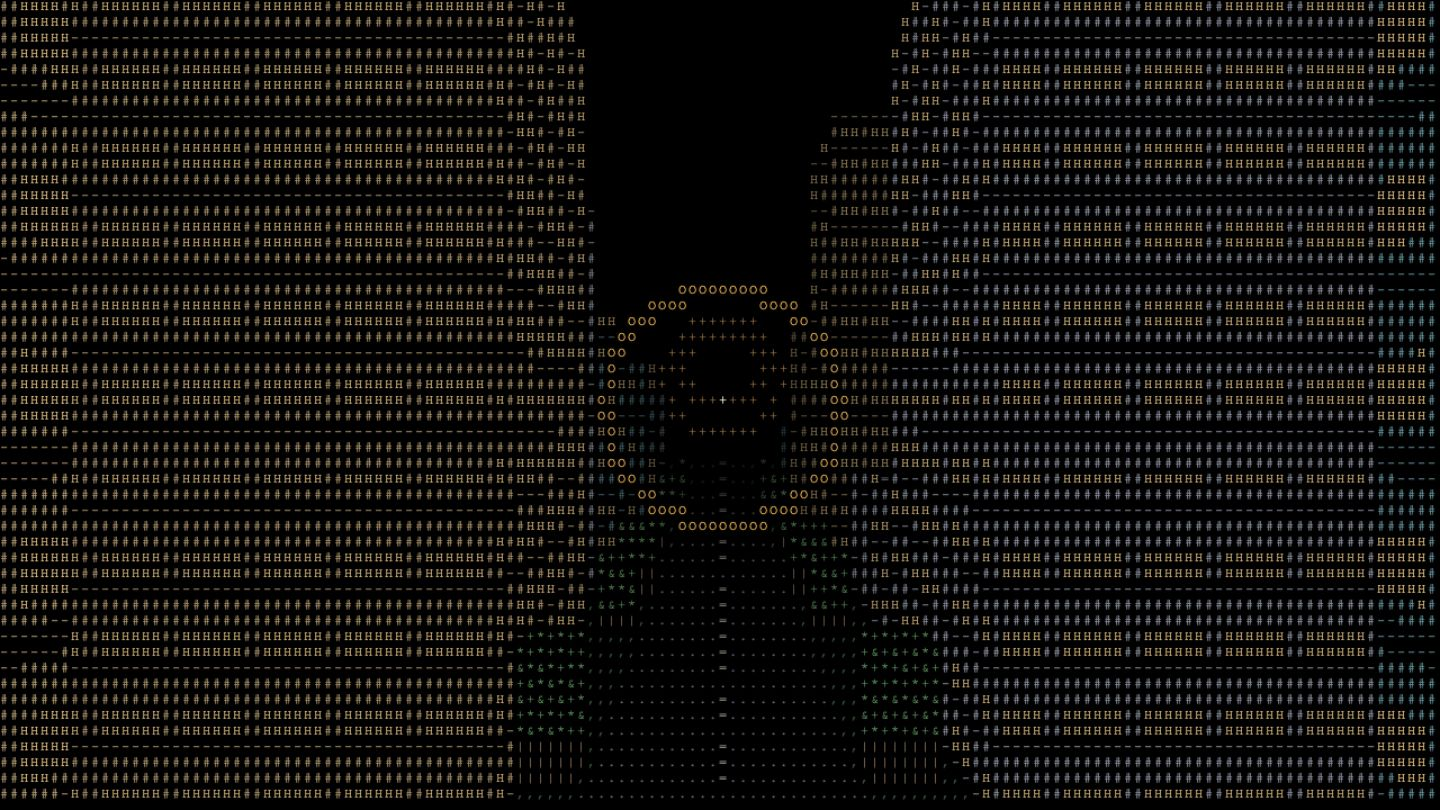
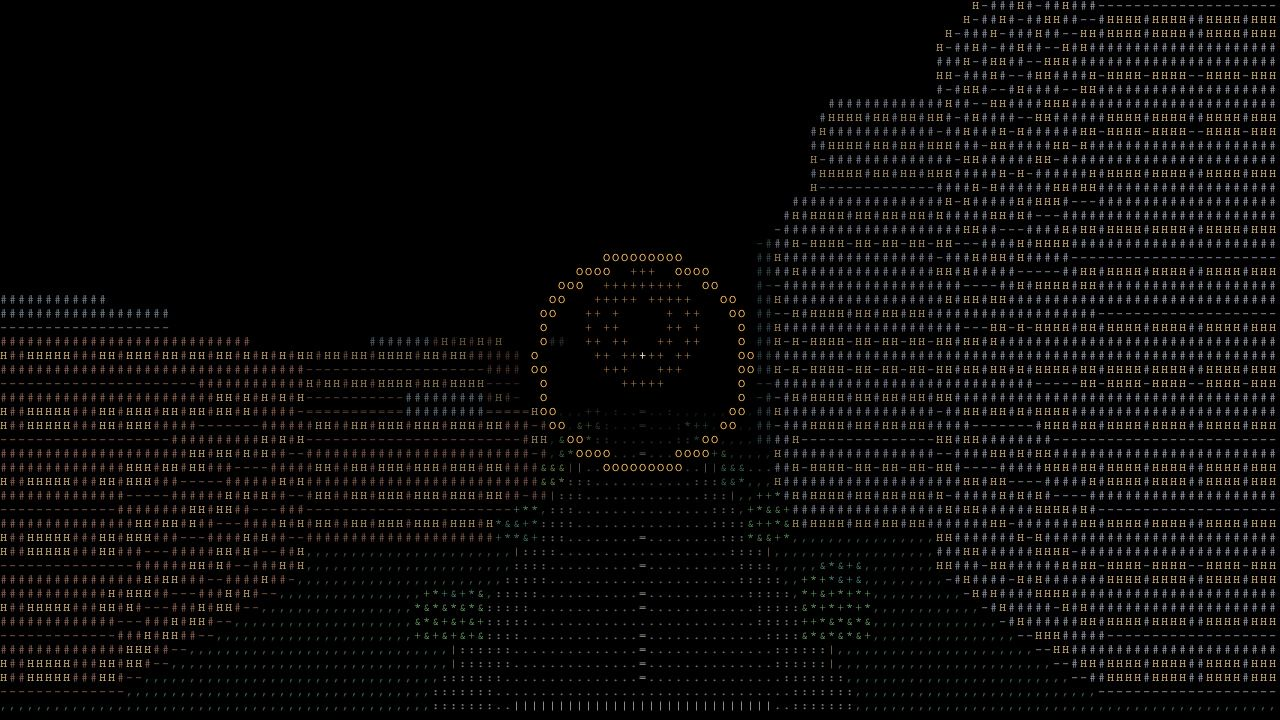
feat: expand ASCII flight into a varied district city
Add asymmetric street blocks, stepped towers, rooftop equipment, a winding river and bridges, a wooded park, clock tower, skybridges and industrial gantries. Replace the simple routes with four routes and 60 gates, verified through actual rate-limited flight controls. Cull ray candidates by projected character columns to retain detail while reducing rendering work. Refresh the standalone demo, homepage preview and documentation. Full build and 213 tests pass.

Changed region(s): [[0.0, 0.0, 1.0, 1.0], [0.4688, 0.3361, 0.5312, 0.3667]]

diff --git a/works/ascii-flight/demo/index.html b/works/ascii-flight/demo/index.html
@@ -14,11 +14,11 @@ body.preview .flight-view{min-height:0}
 <div class="telemetry"><div><span>空速</span><strong id="speed">25</strong><small>m/s</small></div><div><span>高度</span><strong id="altitude">27</strong><small>m</small></div><div><span>航向</span><strong id="heading">000</strong><small>°</small></div></div>
 <div class="attitude"><span id="pitch">俯仰 +0°</span><span id="roll">滚转 +0°</span><span id="turn">偏航 +0°/s</span></div>
 <div id="notice" role="status" aria-live="polite"></div>
-<div id="start-panel" class="panel"><h2>穿过字符里的城市</h2><p>没有像素贴图。楼房、树木、道路，都是一行行彩色字符。</p><label for="route">选择航线</label><select id="route"><option value="0">沿街初航 · 8 道航门</option><option value="1">街角转弯 · 8 道航门</option><option value="2">低空巡游 · 9 道航门</option><option value="free">自由飞行</option></select><p class="route-note" id="route-note">沿主街穿过 8 道航门，熟悉俯仰与油门。</p><button id="start" class="primary">开始飞行</button><p class="short-controls">W / S 俯仰　 A / D 滚转　 Z / X 速度</p></div>
+<div id="start-panel" class="panel"><h2>穿过字符里的城市</h2><p>穿行高楼街谷、滨河桥梁、公园林地与工业仓库。整座城市由彩色字符构成。</p><label for="route">选择航线</label><select id="route"><option value="0">城市穿针 · 12 道航门</option><option value="1">滨河回环 · 18 道航门</option><option value="2">公园低空 · 16 道航门</option><option value="3">工业远征 · 14 道航门</option><option value="free">自由飞行</option></select><p class="route-note" id="route-note">穿过高楼街谷与两座空中连廊，低飞穿洞，再抬升越过屋顶。</p><button id="start" class="primary">开始飞行</button><p class="short-controls">W / S 俯仰　 A / D 滚转　 Z / X 速度</p></div>
 <div id="result" class="panel" hidden><h2 id="result-title"></h2><p id="result-text"></p><button id="retry" class="primary">重新起飞</button><button id="choose">更换航线</button></div>
 <aside id="instructions" hidden><h2>操纵说明</h2><p>W 抬高机头，S 压低机头；A 向左滚转，D 向右滚转。松开按键后保持当前姿态。</p><p>俯仰、滚转均限于 ±45°。滚转 45° 时以 90°/s 转弯，角速度随滚转角线性变化。</p><p>Z 加速，X 减速，空速 10–50 m/s。转过街角后用反向滚转把机翼放平。</p><p>穿过金色 O 航门；不要碰到楼房、树冠或地面。P / Esc 暂停，R 重飞。</p><p>触屏可使用下方按住操纵键。</p></aside>
 </section>
-<footer><div class="progress"><span id="route-name">沿街初航</span><span id="gate-count">航门 0 / 8</span><span id="distance">航程 0 m</span></div><div class="actions"><button id="pause" disabled>暂停</button><button id="reset">重飞</button></div></footer>
+<footer><div class="progress"><span id="route-name">城市穿针</span><span id="gate-count">航门 0 / 12</span><span id="distance">航程 0 m</span></div><div class="actions"><button id="pause" disabled>暂停</button><button id="reset">重飞</button></div></footer>
 <div class="touch" aria-label="触屏操纵"><button data-key="w" aria-label="抬高机头">W</button><button data-key="s" aria-label="压低机头">S</button><button data-key="a" aria-label="左滚转">A</button><button data-key="d" aria-label="右滚转">D</button><button data-key="z" aria-label="加速">Z</button><button data-key="x" aria-label="减速">X</button></div>
-</main><script>(()=>{var mt=Object.create;var ot=Object.defineProperty;var gt=Object.getOwnPropertyDescriptor;var wt=Object.getOwnPropertyNames;var bt=Object.getPrototypeOf,St=Object.prototype.hasOwnProperty;var kt=(t,e)=>()=>{try{return e||t((e={exports:{}}).exports,e),e.exports}catch(n){throw e=0,n}};var Ct=(t,e,n,o)=>{if(e&&typeof e=="object"||typeof e=="function")for(let i of wt(e))!St.call(t,i)&&i!==n&&ot(t,i,{get:()=>e[i],enumerable:!(o=gt(e,i))||o.enumerable});return t};var vt=(t,e,n)=>(n=t!=null?mt(bt(t)):{},Ct(e||!t||!t.__esModule?ot(n,"default",{value:t,enumerable:!0}):n,t));var lt=kt((qt,st)=>{var A=Math.PI/4,it=Math.PI/2,K=Math.PI/3,$=(t,e,n)=>Math.max(e,Math.min(n,t));function Lt(){return{x:0,y:27,z:-50,pitch:0,roll:0,yaw:0,speed:25,distance:0,time:0,gate:0,status:"ready"}}function Et(t,e,n){if(n=$(n,0,.1),t.status!=="flying")return t;t.pitch=$(t.pitch+((e.w?1:0)-(e.s?1:0))*K*n,-A,A),t.roll=$(t.roll+((e.d?1:0)-(e.a?1:0))*K*n,-A,A),t.speed=$(t.speed+((e.z?1:0)-(e.x?1:0))*10*n,10,50),t.yaw+=t.roll/A*it*n;let o=t.speed*n,i=o*Math.cos(t.pitch);return t.x+=Math.sin(t.yaw)*i,t.y+=Math.sin(t.pitch)*o,t.z+=Math.cos(t.yaw)*i,t.distance+=o,t.time+=n,t}function rt(t,e,n,o=.7){let i=0,c=1;for(let s of["x","y","z"]){let w=n[s]-n[s+"Size"]/2-o,y=n[s]+n[s+"Size"]/2+o,z=e[s]-t[s];if(Math.abs(z)<1e-8){if(t[s]<w||t[s]>y)return!1;continue}let u=(w-t[s])/z,f=(y-t[s])/z;if(u>f&&([u,f]=[f,u]),i=Math.max(i,u),c=Math.min(c,f),i>c)return!1}return!0}function It(t,e,n){if(e.y<1||e.y>200)return e.y<1?"\u89E6\u5730":"\u8D85\u51FA\u7A7A\u57DF";for(let o of n)if(rt(t,e,o))return o.kind==="tree"?"\u649E\u5230\u6811\u51A0":"\u649E\u5230\u697C\u623F";return null}function Rt(t,e,n){let o=(t.x-n.x)*n.nx+(t.z-n.z)*n.nz,i=(e.x-n.x)*n.nx+(e.z-n.z)*n.nz;if(o>0||i<0||Math.abs(i-o)<1e-8)return!1;let c=-o/(i-o),s=t.x+(e.x-t.x)*c-n.x,w=t.y+(e.y-t.y)*c-n.y,y=t.z+(e.z-t.z)*c-n.z;return Math.hypot(s,w,y)<n.radius}function at(t){return()=>(t=Math.imul(t,1664525)+1013904223>>>0,t/4294967296)}function At(){let t=at(8419),e=[];for(let n=-5;n<=5;n++)for(let o=-3;o<=14;o++){for(let i of[-1,1]){let c=18+t()*68;e.push({kind:"building",x:n*120+i*(30+t()*5),y:c/2,z:o*120+32,xSize:25+t()*9,ySize:c,zSize:42,shade:Math.floor(t()*3)});let s=16+t()*42;e.push({kind:"building",x:n*120+i*35,y:s/2,z:o*120+83,xSize:32,ySize:s,zSize:31,shade:Math.floor(t()*3)})}for(let i of[-13,13])for(let c of[22,70,96])e.push({kind:"tree",x:n*120+i,y:5,z:o*120+c,xSize:5,ySize:10,zSize:5})}return e}var Tt=[{name:"\u6CBF\u8857\u521D\u822A",description:"\u6CBF\u4E3B\u8857\u7A7F\u8FC7 8 \u9053\u822A\u95E8\uFF0C\u719F\u6089\u4FEF\u4EF0\u4E0E\u6CB9\u95E8\u3002",points:[[0,27,50],[0,33,155],[0,39,265],[0,27,380],[0,23,495],[0,35,620],[0,42,735],[0,28,850]]},{name:"\u8857\u89D2\u8F6C\u5F2F",description:"\u5728\u5341\u5B57\u8DEF\u53E3\u5411\u53F3\u8F6C\uFF0C\u518D\u6CBF\u4FA7\u8857\u5411\u524D\u3002",points:[[0,27,50],[0,30,180],[0,30,300],[27,30,357],[85,30,360],[120,30,390],[120,27,480],[120,38,600]]},{name:"\u4F4E\u7A7A\u5DE1\u6E38",description:"\u9AD8\u4F4E\u4EA4\u9519\u7684\u822A\u95E8\uFF0C\u7A7F\u68AD\u4E24\u6761\u957F\u8857\u3002",points:[[0,18,50],[0,35,170],[0,22,300],[28,26,357],[90,26,360],[120,34,395],[120,18,500],[120,38,650],[120,20,810]]}];function $t(t){let e={x:0,z:-50};return t.points.map(([n,o,i])=>{let c=Math.hypot(n-e.x,i-e.z),s={x:n,y:o,z:i,radius:12,nx:(n-e.x)/c,nz:(i-e.z)/c};return e=s,s})}st.exports={LIMIT:A,TURN_RATE:it,CONTROL_RATE:K,clamp:$,createState:Lt,step:Et,segmentBox:rt,collision:It,crossesGate:Rt,seeded:at,city:At,ROUTES:Tt,gates:$t}});var q=vt(lt(),1);function Ot(t){let e=Math.cos(t.yaw),n=Math.sin(t.yaw),o=Math.cos(t.pitch),i=Math.sin(t.pitch),c=Math.cos(t.roll),s=Math.sin(t.roll);return{f:[n*o,i,e*o],r:[e*c+n*i*s,-o*s,-n*c+e*i*s],u:[e*s-n*i*c,o*c,-n*s-e*i*c]}}function Pt(t,e,n){let o=0,i=600,c=0;for(let s=0;s<3;s++){let w=e[s],y=n.bounds[s*2],z=n.bounds[s*2+1];if(Math.abs(w)<1e-8){if(t[s]<y||t[s]>z)return null;continue}let u=(y-t[s])/w,f=(z-t[s])/w;if(u>f){let k=u;u=f,f=k}if(u>o&&(o=u,c=s),i=Math.min(i,f),o>i)return null}return o>0?{t:o,axis:c}:null}var v={building:["#6b9ca5","#a3a9b8","#c5aa7c"],window:"#f0cb89",tree:"#6eaa6e",trunk:"#a68c6a",road:"#7c8396",line:"#c5c1b0",grass:"#426949",gate:"#f5bb55",dim:"#9a7041"};function ct(t,e,n,o,i){let c=t.getContext("2d"),s=t.width,w=t.height,y=9,z=14,u=Math.floor(s/y),f=Math.floor(w/z),k=Ot(e),zt=[e.x,e.y,e.z],N=u*.68;for(let l of n)l.bounds||(l.bounds=[l.x-l.xSize/2,l.x+l.xSize/2,l.y-l.ySize/2,l.y+l.ySize/2,l.z-l.zSize/2,l.z+l.zSize/2]);let Mt=n.filter(l=>{let d=l.x-e.x,b=l.z-e.z;return d*d+b*b<330*330&&d*k.f[0]+b*k.f[2]>-80}),j=new Array(u*f),H=new Float32Array(u*f).fill(600);c.fillStyle="#000",c.fillRect(0,0,s,w),c.font='12px "Courier New",monospace',c.textBaseline="top";for(let l=0;l<f;l++)for(let d=0;d<u;d++){let b=(d-u/2)/N,T=-(l-f/2)*z/y/N,M=[0,1,2].map(h=>k.f[h]+k.r[h]*b+k.u[h]*T),m=600,p=null;if(M[1]<-1e-4){let h=-e.y/M[1];h<600&&(m=h,p={kind:"ground"})}for(let h of Mt){let I=Pt(zt,M,h);I&&I.t<m&&(m=I.t,p={...h,axis:I.axis})}if(!p)continue;let C=e.x+M[0]*m,x=e.y+M[1]*m,S=e.z+M[2]*m,g,U;if(p.kind==="ground"){let h=Math.abs(((C+60)%120+120)%120-60),I=Math.abs(((S+60)%120+120)%120-60),et=h<10||I<10,nt=(h<.45||I<.45)&&Math.floor((h<.45?S:C)/5)%3!==0;g=et?nt?"=":".":", ",g=g[0],U=et?nt?v.line:v.road:v.grass}else if(p.kind==="tree"){if(!(x>3&&Math.abs(C-p.x)+Math.abs(S-p.z)<5)&&x>3)continue;g=x<3?"|":"*+&"[Math.abs(Math.floor(C*2+S*3+x))%3],U=x<3?v.trunk:v.tree}else{let h=p.axis!==1&&(x%5+5)%5>1.6&&(x%5+5)%5<3.5&&((p.axis===0?S:C)%5+5)%5>1.4;g=h?"H":p.axis===1?"=":Math.floor(x)%5===0?"-":"#",U=h?v.window:v.building[p.shade]}let tt=l*u+d;j[tt]={char:g,color:U,alpha:Math.max(.23,1-m/450)},H[tt]=m}o.forEach((l,d)=>{if(!(d<i||d>i+2))for(let b=0;b<Math.PI*2;b+=.025){let T=[l.x+l.nz*Math.cos(b)*l.radius-e.x,l.y+Math.sin(b)*l.radius-e.y,l.z-l.nx*Math.cos(b)*l.radius-e.z],M=T.reduce((x,S,g)=>x+S*k.f[g],0);if(M<=1)continue;let m=Math.round(u/2+T.reduce((x,S,g)=>x+S*k.r[g],0)*N/M),p=Math.round(f/2-T.reduce((x,S,g)=>x+S*k.u[g],0)*N/M*y/z),C=p*u+m;m>=0&&m<u&&p>=0&&p<f&&M<H[C]+4&&(j[C]={char:d===i?"O":"+",color:d===i?v.gate:v.dim,alpha:1},H[C]=M)}});for(let l=0;l<j.length;l++){let d=j[l];d&&(c.fillStyle=d.color,c.globalAlpha=d.alpha,c.fillText(d.char,l%u*y,Math.floor(l/u)*z))}c.globalAlpha=1,c.fillStyle="#dfe3d3",c.fillText("+",Math.floor(u/2)*y,Math.floor(f/2)*z)}var{createState:X,step:Ft,collision:Nt,crossesGate:jt,city:Ut,ROUTES:B,gates:ft}=q.default,D=new URLSearchParams(location.search).has("preview");document.body.classList.toggle("preview",D);var a=t=>document.getElementById(t),O=a("view"),ht=Ut(),R={},ut="windplay-ascii-flight-best",r=X(),L=0,E=ft(B[0]),Q=0,dt=0,pt=0,W=!0;function xt(){let t=O.getBoundingClientRect(),e=Math.min(1,1440/t.width);O.width=D?1280:Math.max(360,Math.round(t.width*e)),O.height=Math.round(D?1280*t.height/Math.max(1,t.width):t.height*e),G()}function G(){ct(O,r,ht,E,r.gate),W=!1}function _(){for(let t of Object.keys(R))delete R[t];document.querySelectorAll(".held").forEach(t=>t.classList.remove("held"))}function Y(t){a("notice").textContent=t,pt=performance.now()+3500}function Z(){L=a("route").value==="free"?-1:Number(a("route").value),E=L<0?[]:ft(B[L]),a("route-note").textContent=L<0?"\u6CA1\u6709\u8BA1\u65F6\u9650\u5236\uFF0C\u81EA\u7531\u63A2\u7D22\u3002\u5C0F\u5FC3\u5EFA\u7B51\u548C\u6811\u51A0\u3002":B[L].description,a("route-name").textContent=L<0?"\u81EA\u7531\u98DE\u884C":B[L].name,J(),G()}function P(){_(),r=X(),r.status="flying",a("start-panel").hidden=!0,a("result").hidden=!0,a("pause").disabled=!1,a("pause").textContent="\u6682\u505C",Y("\u4FDD\u6301\u5E73\u98DE\uFF0C\u7A7F\u8FC7\u524D\u65B9\u91D1\u8272\u822A\u95E8"),J(),G()}function V(t){r.status="ended",_(),a("result").hidden=!1,a("pause").disabled=!0,a("result-title").textContent=t||"\u822A\u7EBF\u5B8C\u6210";let e=`\u98DE\u884C ${r.time.toFixed(1)} \u79D2\uFF0C\u822A\u7A0B ${Math.round(r.distance)} \u7C73\u3002`;if(!t){let n=null;try{let o=JSON.parse(localStorage.getItem(ut)||"{}");n=o[L],!n||r.time<n?(o[L]=r.time,localStorage.setItem(ut,JSON.stringify(o)),e+=" \u65B0\u7684\u6700\u5FEB\u7EAA\u5F55\u3002"):e+=` \u6700\u5FEB ${n.toFixed(1)} \u79D2\u3002`}catch{}}a("result-text").textContent=e,J()}function F(){r.status==="flying"?(r.status="paused",_(),a("pause").textContent="\u7EE7\u7EED",Y("\u5DF2\u6682\u505C \xB7 P / Esc \u7EE7\u7EED")):r.status==="paused"&&(r.status="flying",a("pause").textContent="\u6682\u505C",a("notice").textContent="")}function J(){let t=n=>Math.round(n*180/Math.PI),e=n=>(n>=0?"+":"")+n;a("speed").textContent=r.speed.toFixed(0),a("altitude").textContent=r.y.toFixed(0),a("heading").textContent=String((t(r.yaw)%360+360)%360).padStart(3,"0"),a("pitch").textContent=`\u4FEF\u4EF0 ${e(t(r.pitch))}\xB0`,a("roll").textContent=`\u6EDA\u8F6C ${e(t(r.roll))}\xB0`,a("turn").textContent=`\u504F\u822A ${e(t(r.roll/q.default.LIMIT*q.default.TURN_RATE))}\xB0/s`,a("gate-count").textContent=E.length?`\u822A\u95E8 ${r.gate} / ${E.length}`:"\u81EA\u7531\u822A\u7EBF",a("distance").textContent=`\u822A\u7A0B ${Math.round(r.distance)} m`}function yt(t){let e=Q?Math.min((t-Q)/1e3,.25):0;for(Q=t;r.status==="flying"&&e>0;){let n=Math.min(e,.05),o={...r};e-=n,Ft(r,R,n),W=!0;let i=Nt(o,r,ht);i?V(i):E[r.gate]&&jt(o,r,E[r.gate])&&(r.gate++,r.gate===E.length?V():Y(`\u822A\u95E8 ${r.gate} / ${E.length} \xB7 \u7EE7\u7EED\u524D\u884C`)),r.status==="flying"&&(Math.abs(r.x)>600||r.z>1650||r.z<-350)&&V("\u98DE\u51FA\u57CE\u5E02")}t-dt>40&&(r.status==="flying"||W)&&(dt=t,G(),J()),t>pt&&r.status!=="paused"&&(a("notice").textContent=""),requestAnimationFrame(yt)}window.addEventListener("keydown",t=>{if(t.target.matches("select,input,textarea"))return;let e=t.key.toLowerCase();"wasdzx".includes(e)&&(t.preventDefault(),R[e]=!0),t.repeat||((e==="p"||e==="escape")&&F(),e==="r"&&P(),e==="enter"&&r.status==="ready"&&P())});window.addEventListener("keyup",t=>delete R[t.key.toLowerCase()]);window.addEventListener("blur",()=>{_(),r.status==="flying"&&F()});document.addEventListener("visibilitychange",()=>{document.hidden&&r.status==="flying"&&F()});for(let t of document.querySelectorAll("[data-key]")){t.addEventListener("pointerdown",n=>{n.preventDefault(),t.setPointerCapture(n.pointerId),R[t.dataset.key]=!0,t.classList.add("held")});let e=()=>{delete R[t.dataset.key],t.classList.remove("held")};t.addEventListener("pointerup",e),t.addEventListener("pointercancel",e),t.addEventListener("lostpointercapture",e)}a("start").onclick=P;a("retry").onclick=P;a("reset").onclick=P;a("pause").onclick=F;a("choose").onclick=()=>{r=X(),a("result").hidden=!0,a("start-panel").hidden=!1,a("pause").disabled=!0,Z()};a("route").onchange=Z;a("help").onclick=()=>{let t=a("instructions").hidden;a("instructions").hidden=!t,a("help").setAttribute("aria-expanded",t),t&&r.status==="flying"&&F()};new ResizeObserver(xt).observe(O);Z();xt();D||requestAnimationFrame(yt);})();
+</main><script>(()=>{var Ct=Object.create;var ct=Object.defineProperty;var Et=Object.getOwnPropertyDescriptor;var Lt=Object.getOwnPropertyNames;var It=Object.getPrototypeOf,Rt=Object.prototype.hasOwnProperty;var Tt=(t,e)=>()=>{try{return e||t((e={exports:{}}).exports,e),e.exports}catch(n){throw e=0,n}};var At=(t,e,n,r)=>{if(e&&typeof e=="object"||typeof e=="function")for(let s of Lt(e))!Rt.call(t,s)&&s!==n&&ct(t,s,{get:()=>e[s],enumerable:!(r=Et(e,s))||r.enumerable});return t};var dt=(t,e,n)=>(n=t!=null?Ct(It(t)):{},At(e||!t||!t.__esModule?ct(n,"default",{value:t,enumerable:!0}):n,t));var et=Tt((Wt,wt)=>{var U=Math.PI/4,ft=Math.PI/2,Y=Math.PI/3,B=(t,e,n)=>Math.max(e,Math.min(n,t));function Ot(){return{x:0,y:27,z:-50,pitch:0,roll:0,yaw:0,speed:25,distance:0,time:0,gate:0,status:"ready"}}function $t(t,e,n){if(n=B(n,0,.1),t.status!=="flying")return t;t.pitch=B(t.pitch+((e.w?1:0)-(e.s?1:0))*Y*n,-U,U),t.roll=B(t.roll+((e.d?1:0)-(e.a?1:0))*Y*n,-U,U),t.speed=B(t.speed+((e.z?1:0)-(e.x?1:0))*10*n,10,50),t.yaw+=t.roll/U*ft*n;let r=t.speed*n,s=r*Math.cos(t.pitch);return t.x+=Math.sin(t.yaw)*s,t.y+=Math.sin(t.pitch)*r,t.z+=Math.cos(t.yaw)*s,t.distance+=r,t.time+=n,t}function ut(t,e,n,r=.7){let s=0,o=1;for(let i of["x","y","z"]){let l=n[i]-n[i+"Size"]/2-r,p=n[i]+n[i+"Size"]/2+r,h=e[i]-t[i];if(Math.abs(h)<1e-8){if(t[i]<l||t[i]>p)return!1;continue}let f=(l-t[i])/h,w=(p-t[i])/h;if(f>w&&([f,w]=[w,f]),s=Math.max(s,f),o=Math.min(o,w),s>o)return!1}return!0}function Nt(t,e,n){if(e.y<1||e.y>200)return e.y<1?"\u89E6\u5730":"\u8D85\u51FA\u7A7A\u57DF";for(let r of n)if(ut(t,e,r))return r.kind==="tree"?"\u649E\u5230\u6811\u51A0":"\u649E\u5230\u697C\u623F";return null}function jt(t,e,n){let r=(t.x-n.x)*n.nx+(t.z-n.z)*n.nz,s=(e.x-n.x)*n.nx+(e.z-n.z)*n.nz;if(r>0||s<0||Math.abs(s-r)<1e-8)return!1;let o=-r/(s-r),i=t.x+(e.x-t.x)*o-n.x,l=t.y+(e.y-t.y)*o-n.y,p=t.z+(e.z-t.z)*o-n.z;return Math.hypot(i,l,p)<n.radius}function ht(t){return()=>(t=Math.imul(t,1664525)+1013904223>>>0,t/4294967296)}var Pt={minX:-820,maxX:880,minZ:-300,maxZ:1880},D=[-720,-540,-360,-180,0,180,600,780],F=[-180,0,180,360,600,840,1080,1380,1680],tt=t=>390+Math.sin(t/240)*38;function pt(t,e){let n=Math.min(...D.map(i=>Math.abs(t-i))),r=Math.min(...F.map(i=>Math.abs(e-i))),s=Math.abs(t-tt(e))<30,o=n<12||r<12;if(s&&r>=12)return{kind:"water",stripe:!1};if(o){let i=n<r?e:t;return{kind:s?"bridge":"road",stripe:Math.min(n,r)<.55&&Math.floor(i/6)%3!==0,crosswalk:n<10&&r>15&&r<21||r<10&&n>15&&n<21}}return t>-170&&t<-20&&e>610&&e<830?{kind:"park",stripe:!1}:{kind:n<17||r<17?"pavement":"grass",stripe:!1}}function Ut(){let t=ht(8419),e=[],n=(o,i,l,p,h,f,w={})=>e.push({kind:"building",x:o,y:i,z:l,xSize:p,ySize:h,zSize:f,shade:0,...w});function r(o,i,l=9){pt(o,i).kind!=="water"&&(n(o,l*.24,i,1.1,l*.48,1.1,{kind:"tree",foliage:!1}),n(o,l*.68,i,5.5,l*.65,5.5,{kind:"tree",foliage:!0,shade:Math.floor(t()*3)}),n(o+.8,l*.94,i-.6,3.5,l*.34,3.5,{kind:"tree",foliage:!0,shade:Math.floor(t()*3)}))}function s(o,i,l,p,h){if(Math.abs(o-tt(i))<l/2+40)return;let f=h==="industrial",w=h==="downtown",y=f?15+t()*19:w?48+t()*85:14+t()*30,A=f?3:w?Math.floor(t()*2):2+Math.floor(t()*2);if(n(o,y/2,i,l,y,p,{district:h,shade:A,windowStep:f?8:w?4:5,windows:!0}),w){let x=6+t()*14;n(o,y+x/2,i,l*.65,x,p*.62,{district:h,shade:A,windows:!0,windowStep:4}),t()>.6&&n(o,y+x+7,i,1.1,14,1.1,{district:h,shade:4,windows:!1})}else n(o+l*.18,y+1.7,i-p*.15,l*.26,3.4,p*.28,{district:h,shade:4,windows:!1}),f&&n(o-l*.28,y+9,i+p*.2,3,18,3,{district:h,shade:3,windows:!1})}for(let o=0;o<D.length-1;o++)for(let i=0;i<F.length-1;i++){let l=D[o],p=D[o+1],h=F[i],f=F[i+1],w=l===-180&&h===600,y=h>=1080?"industrial":l>=0&&l<600&&h<600?"downtown":"residential";if(w){for(let x=0;x<19;x++)r(l+28+t()*110,h+30+t()*170,7+t()*11);continue}let A=Math.max(1,Math.floor((p-l-40)/58));for(let x=0;x<A;x++)for(let O of[h+40,f-40]){let j=l+28+(x+.5)*(p-l-56)/A;s(j,O,28+t()*17,29+t()*14,y)}for(let x=h+100;x<f-60;x+=65)for(let O of[l+40,p-40])s(O,x,30+t()*12,30+t()*16,y);for(let x=h+28;x<f-22;x+=42)for(let O of[l+17,p-17])r(O,x,6+t()*6)}for(let o of[180,600,1080,1380]){let i=tt(o);n(i,3,o,106,3,24,{district:"river",shade:4,windows:!1});for(let l of[-1,1])n(i,5.3,o+l*13,106,1.6,1.4,{district:"river",shade:4,windows:!1}),n(i+l*36,1,o,4,4,20,{district:"river",shade:4,windows:!1})}for(let[o,i,l]of[[0,510,54],[180,720,68]]){for(let p of[-1,1])n(o+p*28,l/2,i,4,l,7,{district:"downtown",shade:4,windows:!1});n(o,l,i,60,5,10,{district:"downtown",shade:1,windows:!0,windowStep:4})}for(let o of[-480,-240]){for(let i of[-1,1])n(o+i*20,23,1260,3,46,5,{district:"industrial",shade:5,windows:!1});n(o,47,1260,46,3,6,{district:"industrial",shade:5,windows:!1}),n(o+8,38,1260,1,18,1,{district:"industrial",shade:4,windows:!1})}n(-270,27,450,15,54,15,{district:"landmark",shade:2,windows:!0,windowStep:9}),n(-270,58,450,23,8,23,{district:"landmark",shade:4,windows:!1});for(let o=0;o<3;o++)n(-95,3+o*4,720,46-o*11,4,34-o*8,{district:"park",shade:2,windows:!1});return e}var Bt=[{name:"\u57CE\u5E02\u7A7F\u9488",description:"\u7A7F\u8FC7\u9AD8\u697C\u8857\u8C37\u4E0E\u4E24\u5EA7\u7A7A\u4E2D\u8FDE\u5ECA\uFF0C\u4F4E\u98DE\u7A7F\u6D1E\uFF0C\u518D\u62AC\u5347\u8D8A\u8FC7\u5C4B\u9876\u3002",points:[[0,27,50],[0,35,155],[0,42,280],[0,30,400],[0,26,510],[0,38,575],[35,44,600],[125,50,600],[180,48,645],[180,35,720],[180,55,820],[180,78,980]]},{name:"\u6EE8\u6CB3\u56DE\u73AF",description:"\u4ECE\u5546\u4E1A\u533A\u5411\u4E1C\u7A7F\u8FC7\u6CB3\u6865\uFF0C\u6CBF\u5BF9\u5CB8\u8F6C\u5F2F\uFF0C\u518D\u8D8A\u6865\u8FD4\u56DE\u57CE\u5E02\u3002",points:[[0,27,70],[0,36,280],[0,40,540],[35,38,600],[140,35,600],[290,26,600],[410,22,600],[560,30,600],[600,35,645],[600,45,820],[600,38,1015],[560,34,1080],[420,28,1080],[280,34,1080],[210,40,1080],[180,42,1120],[180,54,1290],[180,46,1510]]},{name:"\u516C\u56ED\u4F4E\u7A7A",description:"\u7ED5\u8FC7\u949F\u697C\u4E0E\u6797\u5730\uFF0C\u6CBF\u897F\u4FA7\u8857\u9053\u8FDE\u7EED\u8F6C\u5F2F\uFF0C\u5728\u6811\u51A0\u548C\u5C4B\u9876\u4E4B\u95F4\u5DE1\u6E38\u3002",points:[[0,18,60],[0,30,300],[-35,30,360],[-145,28,360],[-180,32,410],[-180,30,555],[-180,24,730],[-180,38,805],[-220,40,840],[-320,34,840],[-360,26,880],[-360,24,1030],[-325,30,1080],[-220,32,1080],[-180,36,1130],[-180,45,1310]]},{name:"\u5DE5\u4E1A\u8FDC\u5F81",description:"\u957F\u8DDD\u79BB\u7A7F\u8D8A\u4ED3\u5E93\u3001\u70DF\u56F1\u548C\u540A\u67B6\uFF0C\u8DE8\u8D8A\u4E09\u6761\u8857\u533A\uFF0C\u5B8C\u6210\u5DE5\u4E1A\u533A\u6298\u8FD4\u3002",points:[[0,30,90],[0,45,330],[0,30,510],[0,55,820],[0,62,1030],[-45,60,1080],[-170,55,1080],[-315,50,1080],[-360,45,1125],[-360,38,1300],[-405,55,1380],[-505,62,1380],[-540,55,1425],[-540,72,1615]]}];function Dt(t){let e={x:0,z:-50};return t.points.map(([n,r,s])=>{let o=Math.hypot(n-e.x,s-e.z),i={x:n,y:r,z:s,radius:12,nx:(n-e.x)/o,nz:(s-e.z)/o};return e=i,i})}wt.exports={LIMIT:U,TURN_RATE:ft,CONTROL_RATE:Y,WORLD_BOUNDS:Pt,STREETS_X:D,STREETS_Z:F,groundAt:pt,clamp:B,createState:Ot,step:$t,segmentBox:ut,collision:Nt,crossesGate:jt,seeded:ht,city:Ut,ROUTES:Bt,gates:Dt}});var W=dt(et(),1);var xt=dt(et(),1);function Ft(t){let e=Math.cos(t.yaw),n=Math.sin(t.yaw),r=Math.cos(t.pitch),s=Math.sin(t.pitch),o=Math.cos(t.roll),i=Math.sin(t.roll);return{f:[n*r,s,e*r],r:[e*o+n*s*i,-r*i,-n*o+e*s*i],u:[e*i-n*s*o,r*o,-n*i-e*s*o]}}function Zt(t,e,n){let r=0,s=600,o=0;for(let i=0;i<3;i++){let l=e[i],p=n.bounds[i*2],h=n.bounds[i*2+1];if(Math.abs(l)<1e-8){if(t[i]<p||t[i]>h)return null;continue}let f=(p-t[i])/l,w=(h-t[i])/l;if(f>w){let y=f;f=w,w=y}if(f>r&&(r=f,o=i),s=Math.min(s,w),r>s)return null}return r>0?{t:r,axis:o}:null}var E={building:["#6b9ca5","#a3a9b8","#c5aa7c","#aa7864","#82929c","#dab05d"],window:"#f0cb89",tree:["#6eaa6e","#83ad65","#4f947d"],trunk:"#a68c6a",road:"#7c8396",line:"#c5c1b0",grass:"#426949",water:"#437e9c",pavement:"#99958a",gate:"#f5bb55",dim:"#9a7041"};function mt(t,e,n,r,s){let o=t.getContext("2d"),i=t.width,l=t.height,p=9,h=14,f=Math.floor(i/p),w=Math.floor(l/h),y=Ft(e),A=[e.x,e.y,e.z],x=f*.68;for(let a of n)a.bounds||(a.bounds=[a.x-a.xSize/2,a.x+a.xSize/2,a.y-a.ySize/2,a.y+a.ySize/2,a.z-a.zSize/2,a.z+a.zSize/2]);let O=n.filter(a=>{let m=a.x-e.x,b=a.z-e.z;return m*m+b*b<330*330&&m*y.f[0]+b*y.f[2]>-80}),j=new Array(f*w),V=new Float32Array(f*w).fill(600),lt=Array.from({length:f},()=>[]);for(let a of O){let m=1/0,b=-1/0,I=1/0,z=-1/0;for(let g of[a.bounds[0],a.bounds[1]])for(let M of[a.bounds[2],a.bounds[3]])for(let L of[a.bounds[4],a.bounds[5]]){let S=[g-e.x,M-e.y,L-e.z],v=S.reduce((k,C,P)=>k+C*y.f[P],0);if(I=Math.min(I,v),z=Math.max(z,v),v>0){let k=f/2+S.reduce((C,P,u)=>C+P*y.r[u],0)*x/v;m=Math.min(m,k),b=Math.max(b,k)}}if(!(z<=0)){I<=.01&&(m=0,b=f-1);for(let g=Math.max(0,Math.floor(m)-1);g<=Math.min(f-1,Math.ceil(b)+1);g++)lt[g].push(a)}}o.fillStyle="#000",o.fillRect(0,0,i,l),o.font='12px "Courier New",monospace',o.textBaseline="top";for(let a=0;a<w;a++)for(let m=0;m<f;m++){let b=(m-f/2)/x,I=-(a-w/2)*h/p/x,z=[0,1,2].map(u=>y.f[u]+y.r[u]*b+y.u[u]*I),g=600,M=null;if(z[1]<-1e-4){let u=-e.y/z[1];u<600&&(g=u,M={kind:"ground"})}for(let u of lt[m]){let $=Zt(A,z,u);$&&$.t<g&&(g=$.t,M={...u,axis:$.axis})}if(!M)continue;let L=e.x+z[0]*g,S=e.y+z[1]*g,v=e.z+z[2]*g,k,C;if(M.kind==="ground"){let u=xt.default.groundAt(L,v);u.kind==="water"?(k=Math.floor(L+v*.3)%4===0?"~":"-",C=E.water):u.kind==="road"||u.kind==="bridge"?(k=u.crosswalk?"|":u.stripe?"=":".",C=u.stripe||u.crosswalk?E.line:E.road):u.kind==="pavement"?(k=":",C=E.pavement):(k=u.kind==="park"?"`":",",C=E.grass)}else if(M.kind==="tree")k=M.foliage?"*+&"[Math.abs(Math.floor(L*2+v*3+S))%3]:"|",C=M.foliage?E.tree[M.shade]:E.trunk;else{let u=M.windowStep||5,$=M.windows!==!1&&M.axis!==1&&(S%u+u)%u>u*.3&&(S%u+u)%u<u*.7&&((M.axis===0?v:L)%u+u)%u>u*.3;k=$?"H":M.axis===1?"=":Math.floor(S)%5===0?"-":"#",C=$?E.window:E.building[M.shade]}let P=a*f+m;j[P]={char:k,color:C,alpha:Math.max(.23,1-g/450)},V[P]=g}r.forEach((a,m)=>{if(!(m<s||m>s+2))for(let b=0;b<Math.PI*2;b+=.025){let I=[a.x+a.nz*Math.cos(b)*a.radius-e.x,a.y+Math.sin(b)*a.radius-e.y,a.z-a.nx*Math.cos(b)*a.radius-e.z],z=I.reduce((S,v,k)=>S+v*y.f[k],0);if(z<=1)continue;let g=Math.round(f/2+I.reduce((S,v,k)=>S+v*y.r[k],0)*x/z),M=Math.round(w/2-I.reduce((S,v,k)=>S+v*y.u[k],0)*x/z*p/h),L=M*f+g;g>=0&&g<f&&M>=0&&M<w&&z<V[L]+4&&(j[L]={char:m===s?"O":"+",color:m===s?E.gate:E.dim,alpha:1},V[L]=z)}});for(let a=0;a<j.length;a++){let m=j[a];m&&(o.fillStyle=m.color,o.globalAlpha=m.alpha,o.fillText(m.char,a%f*p,Math.floor(a/f)*h))}o.globalAlpha=1,o.fillStyle="#dfe3d3",o.fillText("+",Math.floor(f/2)*p,Math.floor(w/2)*h)}var{createState:rt,step:_t,collision:Xt,crossesGate:qt,city:Gt,ROUTES:J,gates:gt,WORLD_BOUNDS:G}=W.default,kt=new URLSearchParams(location.search),_=kt.has("preview");document.body.classList.toggle("preview",_);var d=t=>document.getElementById(t),Z=d("view"),bt=Gt(),N={},yt="windplay-ascii-flight-best-city-v2",c=rt(),R=0,T=gt(J[0]),nt=0,Mt=0,zt=0,it=!0;function vt(){let t=Z.getBoundingClientRect(),e=Math.min(1,1440/t.width);Z.width=_?1280:Math.max(360,Math.round(t.width*e)),Z.height=Math.round(_?1280*t.height/Math.max(1,t.width):t.height*e),H()}function H(){mt(Z,c,bt,T,c.gate),it=!1}function K(){for(let t of Object.keys(N))delete N[t];document.querySelectorAll(".held").forEach(t=>t.classList.remove("held"))}function at(t){d("notice").textContent=t,zt=performance.now()+3500}function st(){R=d("route").value==="free"?-1:Number(d("route").value),T=R<0?[]:gt(J[R]),d("route-note").textContent=R<0?"\u6CA1\u6709\u8BA1\u65F6\u9650\u5236\uFF0C\u81EA\u7531\u63A2\u7D22\u3002\u5C0F\u5FC3\u5EFA\u7B51\u548C\u6811\u51A0\u3002":J[R].description,d("route-name").textContent=R<0?"\u81EA\u7531\u98DE\u884C":J[R].name,Q(),H()}function X(){K(),c=rt(),c.status="flying",d("start-panel").hidden=!0,d("result").hidden=!0,d("pause").disabled=!1,d("pause").textContent="\u6682\u505C",at("\u4FDD\u6301\u5E73\u98DE\uFF0C\u7A7F\u8FC7\u524D\u65B9\u91D1\u8272\u822A\u95E8"),Q(),H()}function ot(t){c.status="ended",K(),d("result").hidden=!1,d("pause").disabled=!0,d("result-title").textContent=t||"\u822A\u7EBF\u5B8C\u6210";let e=`\u98DE\u884C ${c.time.toFixed(1)} \u79D2\uFF0C\u822A\u7A0B ${Math.round(c.distance)} \u7C73\u3002`;if(!t){let n=null;try{let r=JSON.parse(localStorage.getItem(yt)||"{}");n=r[R],!n||c.time<n?(r[R]=c.time,localStorage.setItem(yt,JSON.stringify(r)),e+=" \u65B0\u7684\u6700\u5FEB\u7EAA\u5F55\u3002"):e+=` \u6700\u5FEB ${n.toFixed(1)} \u79D2\u3002`}catch{}}d("result-text").textContent=e,Q()}function q(){c.status==="flying"?(c.status="paused",K(),d("pause").textContent="\u7EE7\u7EED",at("\u5DF2\u6682\u505C \xB7 P / Esc \u7EE7\u7EED")):c.status==="paused"&&(c.status="flying",d("pause").textContent="\u6682\u505C",d("notice").textContent="")}function Q(){let t=n=>Math.round(n*180/Math.PI),e=n=>(n>=0?"+":"")+n;d("speed").textContent=c.speed.toFixed(0),d("altitude").textContent=c.y.toFixed(0),d("heading").textContent=String((t(c.yaw)%360+360)%360).padStart(3,"0"),d("pitch").textContent=`\u4FEF\u4EF0 ${e(t(c.pitch))}\xB0`,d("roll").textContent=`\u6EDA\u8F6C ${e(t(c.roll))}\xB0`,d("turn").textContent=`\u504F\u822A ${e(t(c.roll/W.default.LIMIT*W.default.TURN_RATE))}\xB0/s`,d("gate-count").textContent=T.length?`\u822A\u95E8 ${c.gate} / ${T.length}`:"\u81EA\u7531\u822A\u7EBF",d("distance").textContent=`\u822A\u7A0B ${Math.round(c.distance)} m`}function St(t){let e=nt?Math.min((t-nt)/1e3,.25):0;for(nt=t;c.status==="flying"&&e>0;){let n=Math.min(e,.05),r={...c};e-=n,_t(c,N,n),it=!0;let s=Xt(r,c,bt);s?ot(s):T[c.gate]&&qt(r,c,T[c.gate])&&(c.gate++,c.gate===T.length?ot():at(`\u822A\u95E8 ${c.gate} / ${T.length} \xB7 \u7EE7\u7EED\u524D\u884C`)),c.status==="flying"&&(c.x<G.minX||c.x>G.maxX||c.z>G.maxZ||c.z<G.minZ)&&ot("\u98DE\u51FA\u57CE\u5E02")}t-Mt>40&&(c.status==="flying"||it)&&(Mt=t,H(),Q()),t>zt&&c.status!=="paused"&&(d("notice").textContent=""),requestAnimationFrame(St)}window.addEventListener("keydown",t=>{if(t.target.matches("select,input,textarea"))return;let e=t.key.toLowerCase();"wasdzx".includes(e)&&(t.preventDefault(),N[e]=!0),t.repeat||((e==="p"||e==="escape")&&q(),e==="r"&&X(),e==="enter"&&c.status==="ready"&&X())});window.addEventListener("keyup",t=>delete N[t.key.toLowerCase()]);window.addEventListener("blur",()=>{K(),c.status==="flying"&&q()});document.addEventListener("visibilitychange",()=>{document.hidden&&c.status==="flying"&&q()});for(let t of document.querySelectorAll("[data-key]")){t.addEventListener("pointerdown",n=>{n.preventDefault(),t.setPointerCapture(n.pointerId),N[t.dataset.key]=!0,t.classList.add("held")});let e=()=>{delete N[t.dataset.key],t.classList.remove("held")};t.addEventListener("pointerup",e),t.addEventListener("pointercancel",e),t.addEventListener("lostpointercapture",e)}d("start").onclick=X;d("retry").onclick=X;d("reset").onclick=X;d("pause").onclick=q;d("choose").onclick=()=>{c=rt(),d("result").hidden=!0,d("start-panel").hidden=!1,d("pause").disabled=!0,st()};d("route").onchange=st;d("help").onclick=()=>{let t=d("instructions").hidden;d("instructions").hidden=!t,d("help").setAttribute("aria-expanded",t),t&&c.status==="flying"&&q()};new ResizeObserver(vt).observe(Z);st();_&&Object.assign(c,{river:{x:240,y:48,z:600,yaw:1.3,pitch:-.25},park:{x:-180,y:32,z:660,yaw:1.2,pitch:-.1},industrial:{x:-360,y:60,z:1120,yaw:-.4,pitch:-.12}}[kt.get("view")]||{});vt();_||requestAnimationFrame(St);})();
 </script></body></html>

diff --git a/works/ascii-flight/src/render.js b/works/ascii-flight/src/render.js
@@ -1,4 +1,5 @@
 // A CPU ray tracer writes only printable ASCII glyphs to a 2D canvas.
+import core from './core.cjs';
 export function basis(s){
  const cy=Math.cos(s.yaw),sy=Math.sin(s.yaw),cp=Math.cos(s.pitch),sp=Math.sin(s.pitch),cr=Math.cos(s.roll),sr=Math.sin(s.roll);
  return {f:[sy*cp,sp,cy*cp],r:[cy*cr+sy*sp*sr,-cp*sr,-sy*cr+cy*sp*sr],u:[cy*sr-sy*sp*cr,cp*cr,-sy*sr-cy*sp*cr]};
@@ -11,28 +12,41 @@ function rayBox(o,d,b){
   let a=(min-o[i])/v,c=(max-o[i])/v;if(a>c){const swap=a;a=c;c=swap;}if(a>near){near=a;axis=i;}far=Math.min(far,c);if(near>far)return null;
  }return near>0?{t:near,axis}:null;
 }
-const colors={building:['#6b9ca5','#a3a9b8','#c5aa7c'],window:'#f0cb89',tree:'#6eaa6e',trunk:'#a68c6a',road:'#7c8396',line:'#c5c1b0',grass:'#426949',gate:'#f5bb55',dim:'#9a7041'};
+const colors={building:['#6b9ca5','#a3a9b8','#c5aa7c','#aa7864','#82929c','#dab05d'],window:'#f0cb89',tree:['#6eaa6e','#83ad65','#4f947d'],trunk:'#a68c6a',road:'#7c8396',line:'#c5c1b0',grass:'#426949',water:'#437e9c',pavement:'#99958a',gate:'#f5bb55',dim:'#9a7041'};
 export function render(canvas,s,world,gates,active){
  const ctx=canvas.getContext('2d'),w=canvas.width,h=canvas.height,cell=9,line=14,cols=Math.floor(w/cell),rows=Math.floor(h/line),b=basis(s),o=[s.x,s.y,s.z],focal=cols*.68;
  for(const obj of world)if(!obj.bounds)obj.bounds=[obj.x-obj.xSize/2,obj.x+obj.xSize/2,obj.y-obj.ySize/2,obj.y+obj.ySize/2,obj.z-obj.zSize/2,obj.z+obj.zSize/2];
  const near=world.filter(o=>{const dx=o.x-s.x,dz=o.z-s.z;return dx*dx+dz*dz<330*330&&(dx*b.f[0]+dz*b.f[2]>-80);}),buffer=new Array(cols*rows),depth=new Float32Array(cols*rows).fill(600);
+ // Project conservative box bounds once, so each character column traces only its own buildings.
+ const columns=Array.from({length:cols},()=>[]);
+ for(const obj of near){
+  let left=Infinity,right=-Infinity,minZ=Infinity,maxZ=-Infinity;
+  for(const x of [obj.bounds[0],obj.bounds[1]])for(const y of [obj.bounds[2],obj.bounds[3]])for(const z of [obj.bounds[4],obj.bounds[5]]){
+   const p=[x-s.x,y-s.y,z-s.z],forward=p.reduce((n,v,i)=>n+v*b.f[i],0);
+   minZ=Math.min(minZ,forward);maxZ=Math.max(maxZ,forward);
+   if(forward>0){const screen=cols/2+p.reduce((n,v,i)=>n+v*b.r[i],0)*focal/forward;left=Math.min(left,screen);right=Math.max(right,screen);}
+  }
+  if(maxZ<=0)continue;
+  if(minZ<=.01){left=0;right=cols-1;}
+  for(let x=Math.max(0,Math.floor(left)-1);x<=Math.min(cols-1,Math.ceil(right)+1);x++)columns[x].push(obj);
+ }
  ctx.fillStyle='#000';ctx.fillRect(0,0,w,h);ctx.font='12px "Courier New",monospace';ctx.textBaseline='top';
  for(let y=0;y<rows;y++)for(let x=0;x<cols;x++){
   const vx=(x-cols/2)/focal,vy=-(y-rows/2)*line/cell/focal,d=[0,1,2].map(i=>b.f[i]+b.r[i]*vx+b.u[i]*vy);let t=600,hit=null;
   if(d[1]<-0.0001){const ground=-s.y/d[1];if(ground<600){t=ground;hit={kind:'ground'};}}
-  for(const obj of near){const r=rayBox(o,d,obj);if(r&&r.t<t){t=r.t;hit={...obj,axis:r.axis};}}
+  for(const obj of columns[x]){const r=rayBox(o,d,obj);if(r&&r.t<t){t=r.t;hit={...obj,axis:r.axis};}}
   if(!hit)continue;
   const px=s.x+d[0]*t,py=s.y+d[1]*t,pz=s.z+d[2]*t;let char,color;
   if(hit.kind==='ground'){
-   const ax=Math.abs(((px+60)%120+120)%120-60),az=Math.abs(((pz+60)%120+120)%120-60),road=ax<10||az<10;
-   const stripe=(ax<.45||az<.45)&&Math.floor((ax<.45?pz:px)/5)%3!==0;
-   char=road?(stripe?'=':'.'):', ';char=char[0];color=road?(stripe?colors.line:colors.road):colors.grass;
+   const surface=core.groundAt(px,pz);
+   if(surface.kind==='water'){char=Math.floor(px+pz*.3)%4===0?'~':'-';color=colors.water;}
+   else if(surface.kind==='road'||surface.kind==='bridge'){char=surface.crosswalk?'|':surface.stripe?'=':'.';color=surface.stripe||surface.crosswalk?colors.line:colors.road;}
+   else if(surface.kind==='pavement'){char=':';color=colors.pavement;}
+   else{char=surface.kind==='park'?'`':',';color=colors.grass;}
   }else if(hit.kind==='tree'){
-   const leaf=py>3&&Math.abs(px-hit.x)+Math.abs(pz-hit.z)<5;
-   if(!leaf&&py>3)continue;
-   char=py<3?'|':('*+&'[Math.abs(Math.floor(px*2+pz*3+py))%3]);color=py<3?colors.trunk:colors.tree;
+   char=hit.foliage?('*+&'[Math.abs(Math.floor(px*2+pz*3+py))%3]):'|';color=hit.foliage?colors.tree[hit.shade]:colors.trunk;
   }else{
-   const window=hit.axis!==1&&((py%5+5)%5)>1.6&&((py%5+5)%5)<3.5&&(((hit.axis===0?pz:px)%5+5)%5)>1.4;
+   const spacing=hit.windowStep||5,window=hit.windows!==false&&hit.axis!==1&&((py%spacing+spacing)%spacing)>spacing*.3&&((py%spacing+spacing)%spacing)<spacing*.7&&(((hit.axis===0?pz:px)%spacing+spacing)%spacing)>spacing*.3;
    char=window?'H':hit.axis===1?'=':(Math.floor(py)%5===0?'-':'#');color=window?colors.window:colors.building[hit.shade];
   }
   const index=y*cols+x;buffer[index]={char,color,alpha:Math.max(.23,1-t/450)};depth[index]=t;

diff --git a/works/ascii-flight/src/index.html b/works/ascii-flight/src/index.html
@@ -5,10 +5,10 @@
 <div class="telemetry"><div><span>空速</span><strong id="speed">25</strong><small>m/s</small></div><div><span>高度</span><strong id="altitude">27</strong><small>m</small></div><div><span>航向</span><strong id="heading">000</strong><small>°</small></div></div>
 <div class="attitude"><span id="pitch">俯仰 +0°</span><span id="roll">滚转 +0°</span><span id="turn">偏航 +0°/s</span></div>
 <div id="notice" role="status" aria-live="polite"></div>
-<div id="start-panel" class="panel"><h2>穿过字符里的城市</h2><p>没有像素贴图。楼房、树木、道路，都是一行行彩色字符。</p><label for="route">选择航线</label><select id="route"><option value="0">沿街初航 · 8 道航门</option><option value="1">街角转弯 · 8 道航门</option><option value="2">低空巡游 · 9 道航门</option><option value="free">自由飞行</option></select><p class="route-note" id="route-note">沿主街穿过 8 道航门，熟悉俯仰与油门。</p><button id="start" class="primary">开始飞行</button><p class="short-controls">W / S 俯仰　 A / D 滚转　 Z / X 速度</p></div>
+<div id="start-panel" class="panel"><h2>穿过字符里的城市</h2><p>穿行高楼街谷、滨河桥梁、公园林地与工业仓库。整座城市由彩色字符构成。</p><label for="route">选择航线</label><select id="route"><option value="0">城市穿针 · 12 道航门</option><option value="1">滨河回环 · 18 道航门</option><option value="2">公园低空 · 16 道航门</option><option value="3">工业远征 · 14 道航门</option><option value="free">自由飞行</option></select><p class="route-note" id="route-note">穿过高楼街谷与两座空中连廊，低飞穿洞，再抬升越过屋顶。</p><button id="start" class="primary">开始飞行</button><p class="short-controls">W / S 俯仰　 A / D 滚转　 Z / X 速度</p></div>
 <div id="result" class="panel" hidden><h2 id="result-title"></h2><p id="result-text"></p><button id="retry" class="primary">重新起飞</button><button id="choose">更换航线</button></div>
 <aside id="instructions" hidden><h2>操纵说明</h2><p>W 抬高机头，S 压低机头；A 向左滚转，D 向右滚转。松开按键后保持当前姿态。</p><p>俯仰、滚转均限于 ±45°。滚转 45° 时以 90°/s 转弯，角速度随滚转角线性变化。</p><p>Z 加速，X 减速，空速 10–50 m/s。转过街角后用反向滚转把机翼放平。</p><p>穿过金色 O 航门；不要碰到楼房、树冠或地面。P / Esc 暂停，R 重飞。</p><p>触屏可使用下方按住操纵键。</p></aside>
 </section>
-<footer><div class="progress"><span id="route-name">沿街初航</span><span id="gate-count">航门 0 / 8</span><span id="distance">航程 0 m</span></div><div class="actions"><button id="pause" disabled>暂停</button><button id="reset">重飞</button></div></footer>
+<footer><div class="progress"><span id="route-name">城市穿针</span><span id="gate-count">航门 0 / 12</span><span id="distance">航程 0 m</span></div><div class="actions"><button id="pause" disabled>暂停</button><button id="reset">重飞</button></div></footer>
 <div class="touch" aria-label="触屏操纵"><button data-key="w" aria-label="抬高机头">W</button><button data-key="s" aria-label="压低机头">S</button><button data-key="a" aria-label="左滚转">A</button><button data-key="d" aria-label="右滚转">D</button><button data-key="z" aria-label="加速">Z</button><button data-key="x" aria-label="减速">X</button></div>
 </main><script type="module" src="app.js"></script></body></html>

diff --git a/works/ascii-flight/src/app.js b/works/ascii-flight/src/app.js
@@ -1,9 +1,9 @@
 import core from './core.cjs';
 import {render} from './render.js';
-const {createState,step,collision,crossesGate,city,ROUTES,gates}=core;
-const preview=new URLSearchParams(location.search).has('preview');
+const {createState,step,collision,crossesGate,city,ROUTES,gates,WORLD_BOUNDS}=core;
+const parameters=new URLSearchParams(location.search),preview=parameters.has('preview');
 document.body.classList.toggle('preview',preview);
-const $=id=>document.getElementById(id),canvas=$('view'),world=city(),input={},storeKey='windplay-ascii-flight-best';
+const $=id=>document.getElementById(id),canvas=$('view'),world=city(),input={},storeKey='windplay-ascii-flight-best-city-v2';
 let state=createState(),routeIndex=0,routeGates=gates(ROUTES[0]),last=0,drawLast=0,noticeUntil=0,drawDirty=true;
 function fit(){const rect=canvas.getBoundingClientRect(),scale=Math.min(1,1440/rect.width);canvas.width=preview?1280:Math.max(360,Math.round(rect.width*scale));canvas.height=preview?Math.round(1280*rect.height/Math.max(1,rect.width)):Math.round(rect.height*scale);draw();}
 function draw(){render(canvas,state,world,routeGates,state.gate);drawDirty=false;}
@@ -29,7 +29,7 @@ function frame(now){
    if(state.gate===routeGates.length)finish();
    else notice(`航门 ${state.gate} / ${routeGates.length} · 继续前行`);
   }
-  if(state.status==='flying'&&(Math.abs(state.x)>600||state.z>1650||state.z<-350))finish('飞出城市');
+  if(state.status==='flying'&&(state.x<WORLD_BOUNDS.minX||state.x>WORLD_BOUNDS.maxX||state.z>WORLD_BOUNDS.maxZ||state.z<WORLD_BOUNDS.minZ))finish('飞出城市');
  }
  if(now-drawLast>40&&(state.status==='flying'||drawDirty)){drawLast=now;draw();update();}
  if(now>noticeUntil&&state.status!=='paused')$('notice').textContent='';
@@ -39,4 +39,9 @@ window.addEventListener('keydown',e=>{if(e.target.matches('select,input,textarea
 window.addEventListener('keyup',e=>delete input[e.key.toLowerCase()]);window.addEventListener('blur',()=>{clearInput();if(state.status==='flying')pause();});document.addEventListener('visibilitychange',()=>{if(document.hidden&&state.status==='flying')pause();});
 for(const button of document.querySelectorAll('[data-key]')){button.addEventListener('pointerdown',e=>{e.preventDefault();button.setPointerCapture(e.pointerId);input[button.dataset.key]=true;button.classList.add('held');});const release=()=>{delete input[button.dataset.key];button.classList.remove('held');};button.addEventListener('pointerup',release);button.addEventListener('pointercancel',release);button.addEventListener('lostpointercapture',release);}
 $('start').onclick=start;$('retry').onclick=start;$('reset').onclick=start;$('pause').onclick=pause;$('choose').onclick=()=>{state=createState();$('result').hidden=true;$('start-panel').hidden=false;$('pause').disabled=true;selectRoute();};$('route').onchange=selectRoute;$('help').onclick=()=>{const open=$('instructions').hidden;$('instructions').hidden=!open;$('help').setAttribute('aria-expanded',open);if(open&&state.status==='flying')pause();};
-new ResizeObserver(fit).observe(canvas);selectRoute();fit();if(!preview)requestAnimationFrame(frame);
+new ResizeObserver(fit).observe(canvas);selectRoute();
+if(preview){
+ const views={river:{x:240,y:48,z:600,yaw:1.3,pitch:-.25},park:{x:-180,y:32,z:660,yaw:1.2,pitch:-.1},industrial:{x:-360,y:60,z:1120,yaw:-.4,pitch:-.12}};
+ Object.assign(state,views[parameters.get('view')]||{});
+}
+fit();if(!preview)requestAnimationFrame(frame);

diff --git a/index.html b/index.html
@@ -322,7 +322,7 @@
         </a>
         <a class="work-card ascii-flight-card" style="--t:0.9091" href="works/ascii-flight/demo/index.html" target="_blank" rel="noopener" aria-labelledby="ascii-flight-title" aria-describedby="ascii-flight-note">
           <figure class="work-preview"><div class="preview-bar" aria-hidden="true"><span class="window-dots"><i></i><i></i><i></i></span><span>字间飞行</span><svg viewBox="0 0 24 24"><path d="M8 16 16 8M8 8h8v8"/></svg></div><div class="preview-image"><img src="assets/screenshots/new-games/ascii-flight.jpg" alt="彩色 ASCII 楼房、树木、道路与航门" loading="lazy"><span class="preview-caption" aria-hidden="true">每一个字符，都是一段航程</span></div></figure>
-          <div class="work-content"><div class="work-title-row"><h3 id="ascii-flight-title">字间飞行</h3><span class="work-category">ASCII 飞行</span></div><p id="ascii-flight-note">驾驶模型飞机穿过彩色字符组成的城市。压低机头、滚转转弯，穿过航门，完成三条低空航线。</p><span class="launch">打开作品 <svg viewBox="0 0 24 24" aria-hidden="true"><path d="M5 12h14M13 6l6 6-6 6"/></svg></span></div>
+          <div class="work-content"><div class="work-title-row"><h3 id="ascii-flight-title">字间飞行</h3><span class="work-category">ASCII 飞行</span></div><p id="ascii-flight-note">穿行字符构成的高楼、河桥、公园与工业区。调整姿态，穿过高低交错的航门，挑战四条城市航线。</p><span class="launch">打开作品 <svg viewBox="0 0 24 24" aria-hidden="true"><path d="M5 12h14M13 6l6 6-6 6"/></svg></span></div>
         </a>
 
         <a class="work-card jiangnan-garden-card" style="--t:1.0000" href="works/jiangnan-garden/demo/index.html" target="_blank" rel="noopener" aria-labelledby="jiangnan-garden-title" aria-describedby="jiangnan-garden-note">

diff --git a/works/ascii-flight/docs/DEVELOPMENT.md b/works/ascii-flight/docs/DEVELOPMENT.md
@@ -18,11 +18,15 @@
 
 ## 内容
 
-三条航线：沿街初航、街角转弯、低空巡游，另有自由飞行。穿过所有金色航门即可完成航线；楼房、树冠、地面发生碰撞后可重飞。航线最快用时保存在浏览器本地，存储不可用时仍可完整游玩。
+四条航线：城市穿针（12 门）、滨河回环（18 门）、公园低空（16 门）、工业远征（14 门），另有自由飞行。穿过所有金色航门即可完成航线；楼房、树冠、地面发生碰撞后可重飞。航线最快用时保存在浏览器本地，存储不可用时仍可完整游玩。新城市使用独立的纪录键，不将旧航线用时算作新航线成绩。
+
+城市覆盖约 1.7 × 2.2 公里的空域，街道间距随街区变化。商业区含高楼退台、屋顶设备和两座可从下方穿过的连廊；西侧为低层住宅、钟楼与公园，东侧曲折河流由四座桥连接，北侧仓库区有烟囱与吊架。树木由树干和多层树冠组成，建筑部件与桥面均参与实际碰撞；自由飞行可自行选择绕过、穿过或越过障碍。测试检查航门连接路径，并使用实际角速率控制在 15 m/s 下飞完四条航线；测试控制器不是游戏内自动驾驶功能。
 
 ## 显示
 
-世界使用 CPU 射线和深度缓冲判断可见表面，最终只通过固定等宽网格的 ASCII 字符显示。canvas 只调用 2D 填字，没有 Three.js 或 WebGL。建筑以 # / H / = / - 表示墙面、窗格和屋面，树冠用 * / + / &，道路用 . 和中心线 =，草地用逗号，天空没有字符且纯黑。航门用 O / +，并参与深度遮挡。
+世界使用 CPU 射线和深度缓冲判断可见表面，最终只通过固定等宽网格的 ASCII 字符显示。canvas 只调用 2D 填字，没有 Three.js 或 WebGL。建筑以 # / H / = / - 表示墙面、窗格和屋面，树冠用 * / + / &，道路用 . 和中心线 =，人行道用冒号，河流用蓝色 ~ / -，草地用逗号，天空没有字符且纯黑。航门用 O / +，并参与深度遮挡。
+
+渲染先将附近建筑的八个角投影到字符列，按保守边界筛选每列可能命中的物体，再执行同样的射线与深度判断。跨过镜头平面的物体保留在所有列，避免近景裁掉建筑；增加细节不依赖降低字格精度。
 
 ## 验证
 
@@ -30,4 +34,4 @@
 
 ## 启动台预览
 
-`demo/index.html?preview=1` 隐藏操作界面，只从同一份场景源码绘制初始画面，不启动持续动画或模拟；页面缩放时重新绘制。首页缩略图通过浏览器截取该模式的真实画面并保存到 assets/screenshots/new-games，不嵌入活动场景。此模式不能替代正常页面的交互验收。
+`demo/index.html?preview=1` 隐藏操作界面，只从同一份场景源码绘制初始画面，不启动持续动画或模拟；页面缩放时重新绘制。可附加 `view=river`、`view=park`、`view=industrial` 查看对应区域的固定机位，仅在 preview 模式生效，不改变正常飞行出生点。首页缩略图通过浏览器截取该模式的真实画面并保存到 assets/screenshots/new-games，不嵌入活动场景。此模式不能替代正常页面的交互验收。

diff --git a/docs/PREVIEWS.md b/docs/PREVIEWS.md
@@ -16,7 +16,7 @@
 | [余烬荒野 · Ember Wilds](../works/ember-wilds/) | 手绘荒野生存 | [直接打开成品](https://tingfeng347.github.io/windplay/works/ember-wilds/demo/index.html) | 饥荒玩法启发的原创生存游戏，包含采集、制作、营火、烹饪、昼夜、敌人与生命/饥饿/精神状态 |
 | [点云照片](../works/point-cloud-studio/) | 点云人像 / 交互工具 | [直接打开成品](https://tingfeng347.github.io/windplay/works/point-cloud-studio/demo/index.html) | 将照片转换为彩色点阵 SVG 和可交互三维点云 |
 | [超级马里奥 · 像素冒险](../works/mario-world/) | 像素平台冒险 | [直接打开成品](../works/mario-world/demo/index.html) | FC 初代玩法重制：8 个世界 32 关，跳跃、踩怪、蘑菇、火球、水下与城堡，支持触屏与进度保存 |
-| [字间飞行](../works/ascii-flight/) | ASCII 第一视角飞行 | [直接打开成品](../works/ascii-flight/demo/index.html) | 彩色字符城市，WASD 俯仰与滚转，Z/X 变速，三条航线与自由飞行 |
+| [字间飞行](../works/ascii-flight/) | ASCII 第一视角飞行 | [直接打开成品](../works/ascii-flight/demo/index.html) | 彩色字符楼群、河桥、公园与工业区，四条航线及自由飞行 |
 | [烟雨江南](../works/jiangnan-garden/) | 园林与室内漫游 | [直接打开成品](../works/jiangnan-garden/demo/index.html) | 三开间露明木构、堂屋书房卧房、日夜细雨与环绕漫游 |
 
 ## 截图

diff --git a/works/ascii-flight/DESIGN.md b/works/ascii-flight/DESIGN.md
@@ -22,6 +22,11 @@ colors:
   road: "#7c8396"
   grass: "#426949"
   future-gate: "#9a7041"
+  industrial-brick: "#aa7864"
+  roof-steel: "#82929c"
+  crane-yellow: "#dab05d"
+  river: "#437e9c"
+  pavement: "#99958a"
 typography:
   title:
     fontFamily: '"Courier New", "Noto Sans Mono", monospace'
@@ -120,7 +125,7 @@ components:
 航门金连接当前目标、起飞按钮、焦点轮廓与短状态提示。后续航门使用褐金；主按钮悬停切换浅金。
 
 ### Secondary
-楼房采用青灰、灰紫和沙色三种色调，窗格暖黄，树冠绿；道路灰与地面草绿区分街道和空地。距离通过字符透明度衰减，而不是改写天空色。
+商业楼群采用青灰、灰紫，住宅与钟楼偏沙色，工业区采用砖红、钢灰和吊架黄；窗格暖黄，树冠绿。蓝色波纹字符标记河道，灰色点阵与浅色条纹标记街道及桥梁，冒号标记人行道。距离通过字符透明度衰减，而不是改写天空色。
 
 ### Neutral
 暖灰用于主要读数，冷灰用于说明。深灰分界划出页头页脚；近黑面板与航线字段压住画面，灰边保持可辨认的轮廓。

diff --git a/docs/GAME_COVERS.md b/docs/GAME_COVERS.md
@@ -36,6 +36,10 @@
 | 余烬荒野 | `assets/screenshots/ember-wilds.png` |
 | 点云照片 | `assets/screenshots/point-cloud-studio.png` |
 | 超级马里奥 | `assets/screenshots/mario-world.png` |
+| 字间飞行 | `assets/screenshots/new-games/ascii-flight.jpg` |
+
+字间飞行截图来自 `works/ascii-flight/demo/index.html?preview=1` 的真实 Canvas 字符画面。
+2026-10-10 随分区城市地图更新重新截取，未使用生成图；源码机位在城市南侧入口，截图保留黑色天空与彩色字符。
 
 启动台截图保存在 `assets/screenshots/launcher.jpg`，手机端保存在 `assets/screenshots/launcher-mobile.jpg`。
 首页布局变化时同步刷新这两张图片；作品界面变化时刷新对应截图，并确认 README 的图片链接与作品入口一致。
